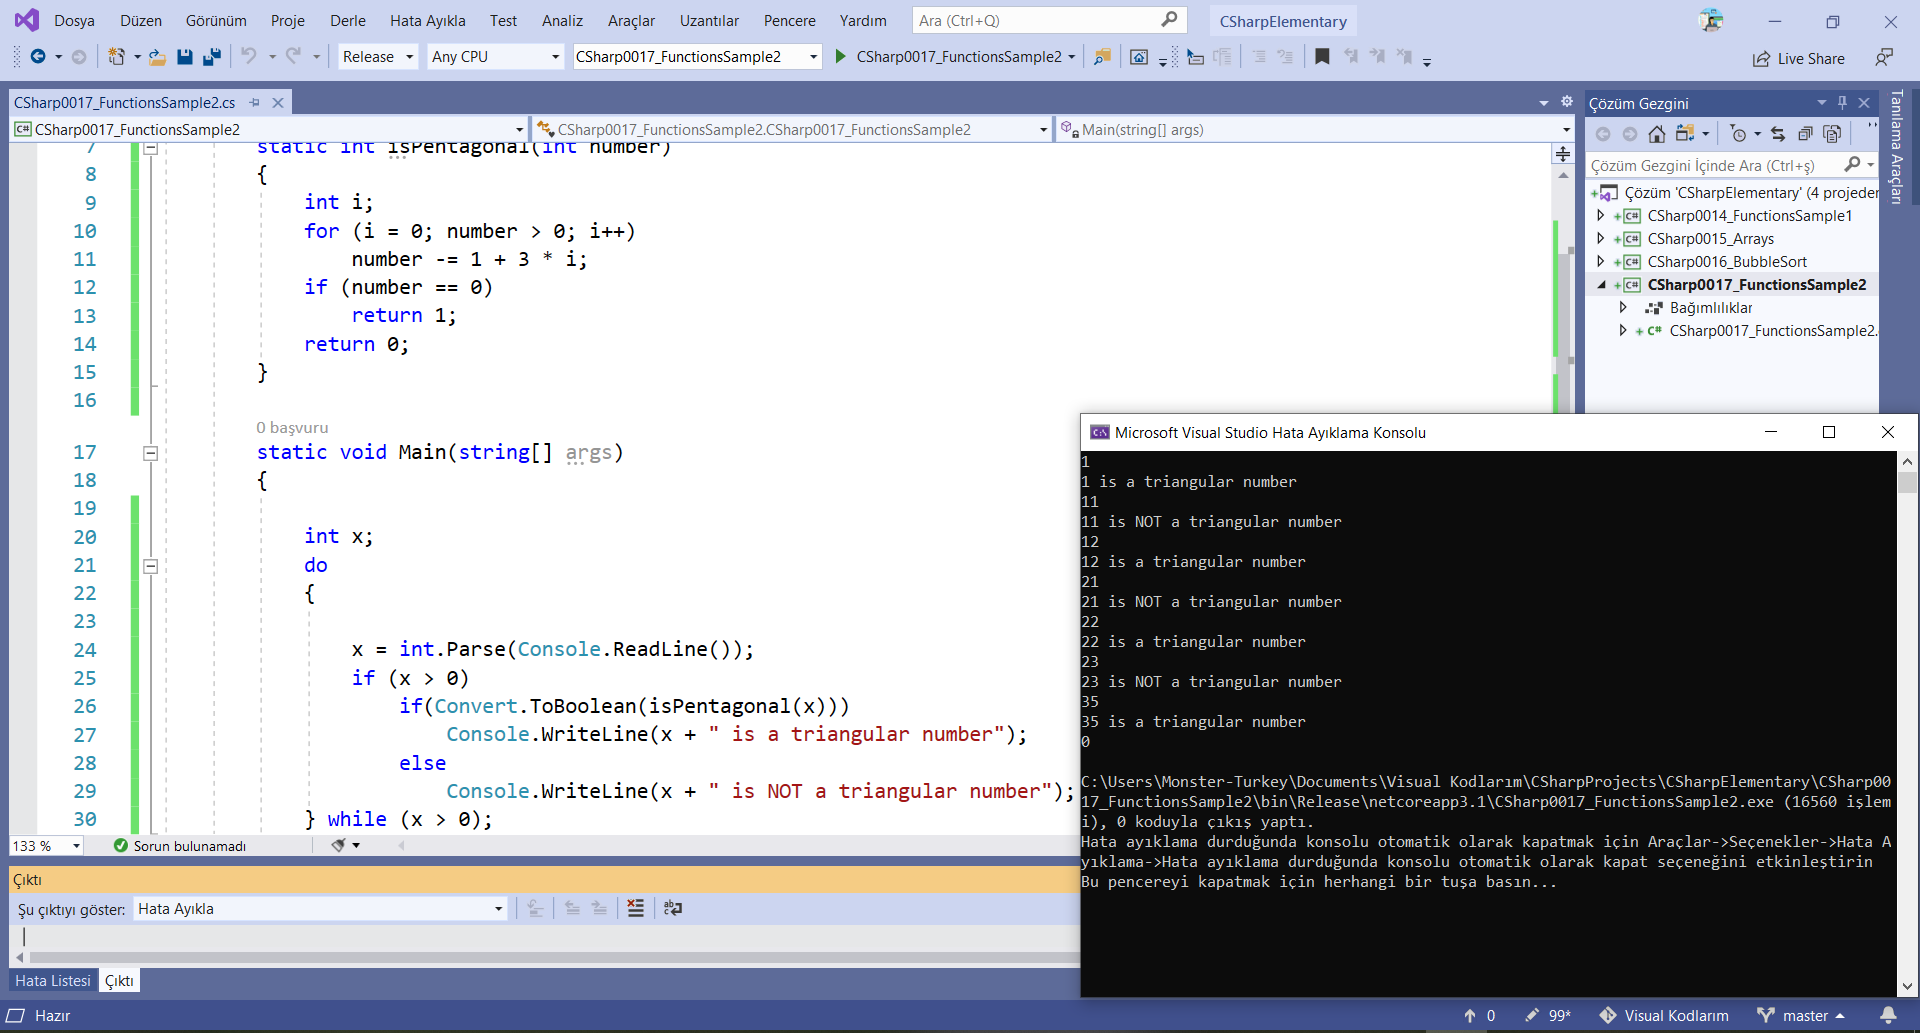
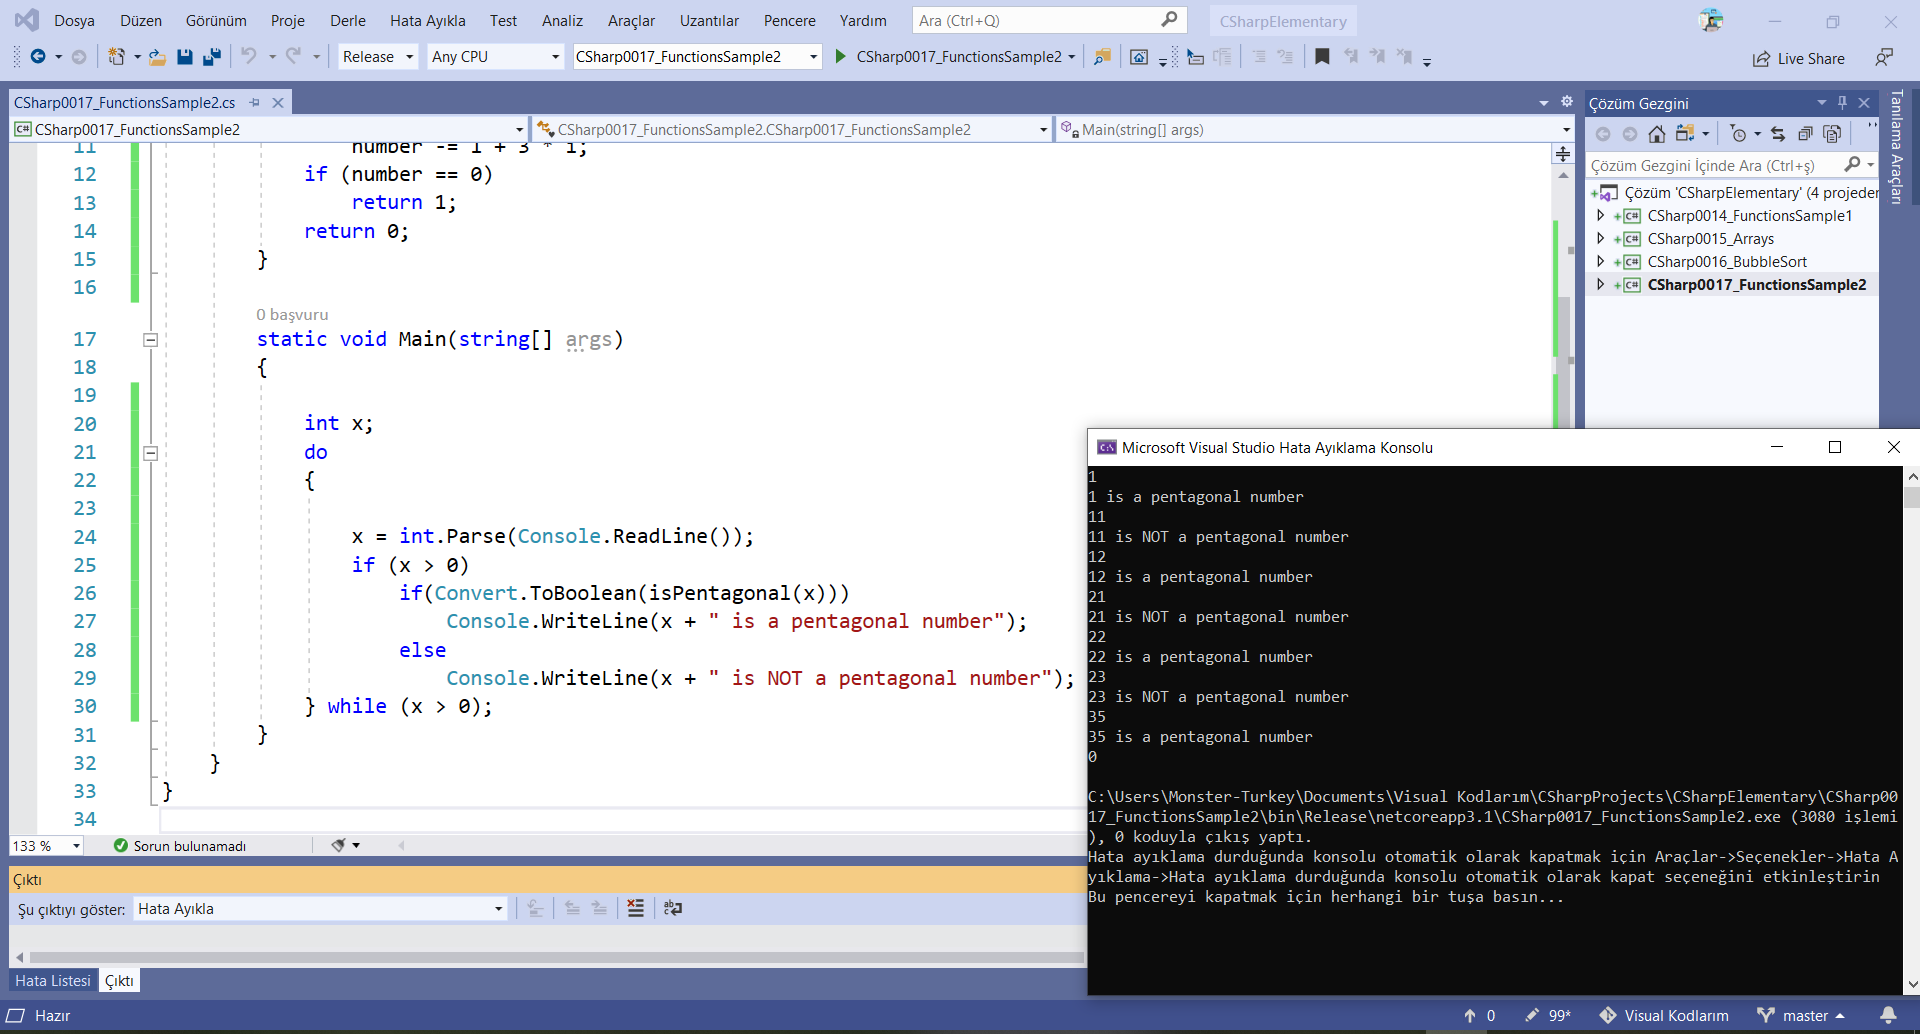
initial commit

diff --git a/CSharp0017_FunctionsSample2.cs b/CSharp0017_FunctionsSample2.cs
@@ -24,9 +24,9 @@ namespace CSharp0017_FunctionsSample2
                 x = int.Parse(Console.ReadLine());
                 if (x > 0)
                     if(Convert.ToBoolean(isPentagonal(x)))
-                        Console.WriteLine(x + " is a triangular number");
+                        Console.WriteLine(x + " is a pentagonal number");
                     else
-                        Console.WriteLine(x + " is NOT a triangular number");
+                        Console.WriteLine(x + " is NOT a pentagonal number");
             } while (x > 0);
         }
     }

diff --git a/Python0017_FunctionsSample2.py b/Python0017_FunctionsSample2.py
@@ -1,6 +1,6 @@
 def isPentagonal(number):
 
-    i = 1
+    i = 0
     while number>0:
         number -= 1+3*i
         i += 1
